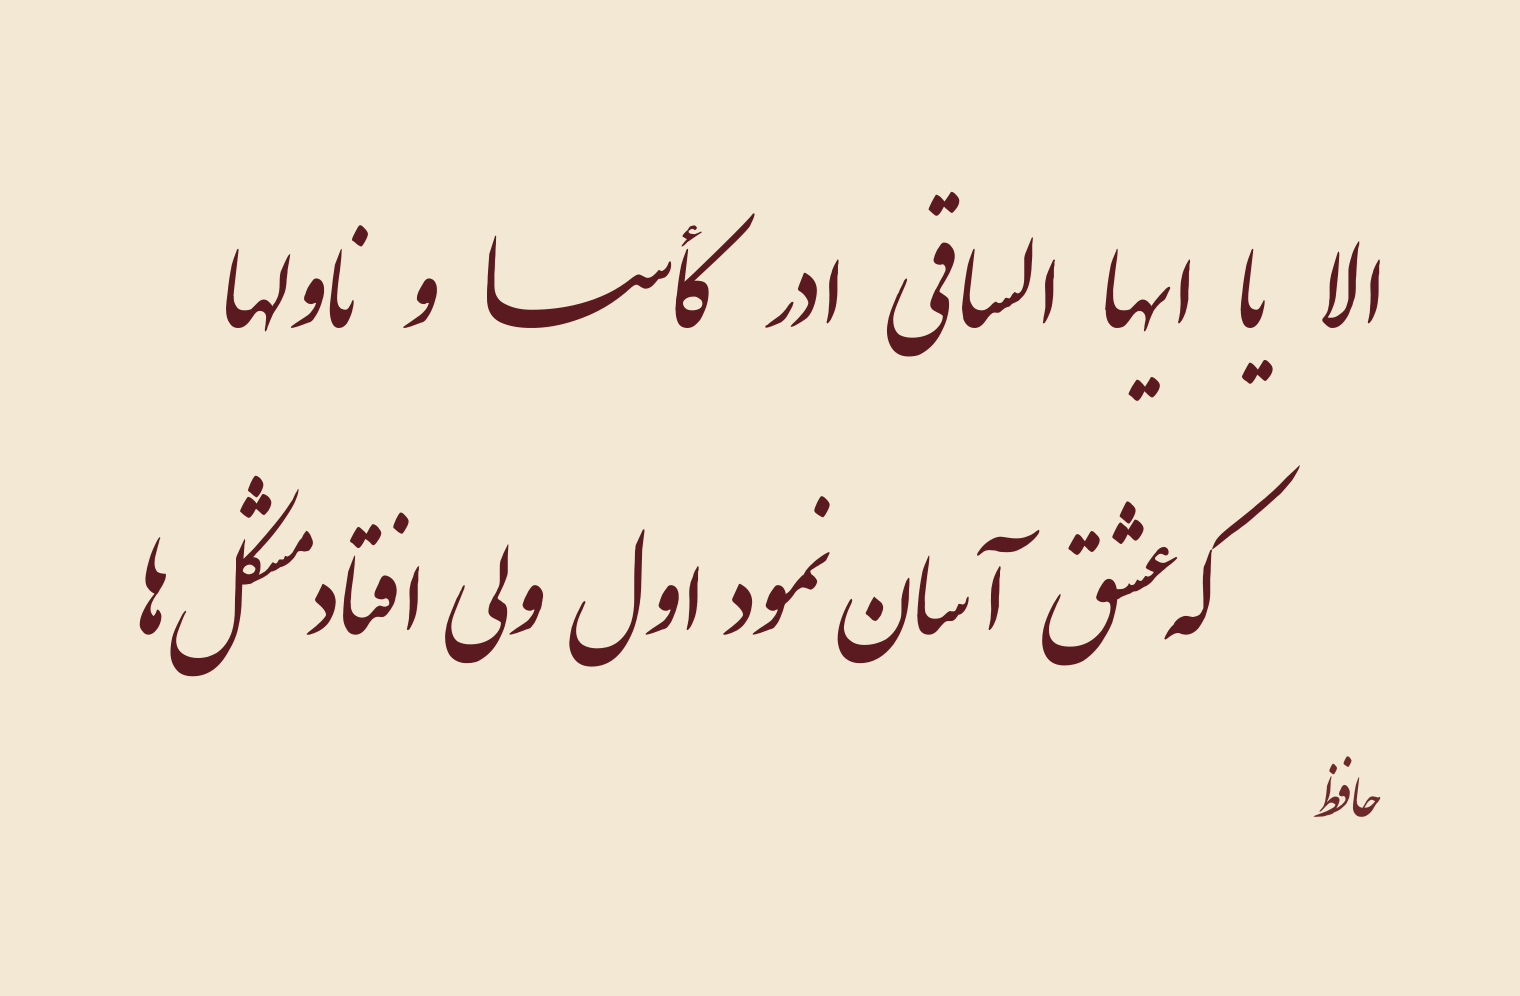
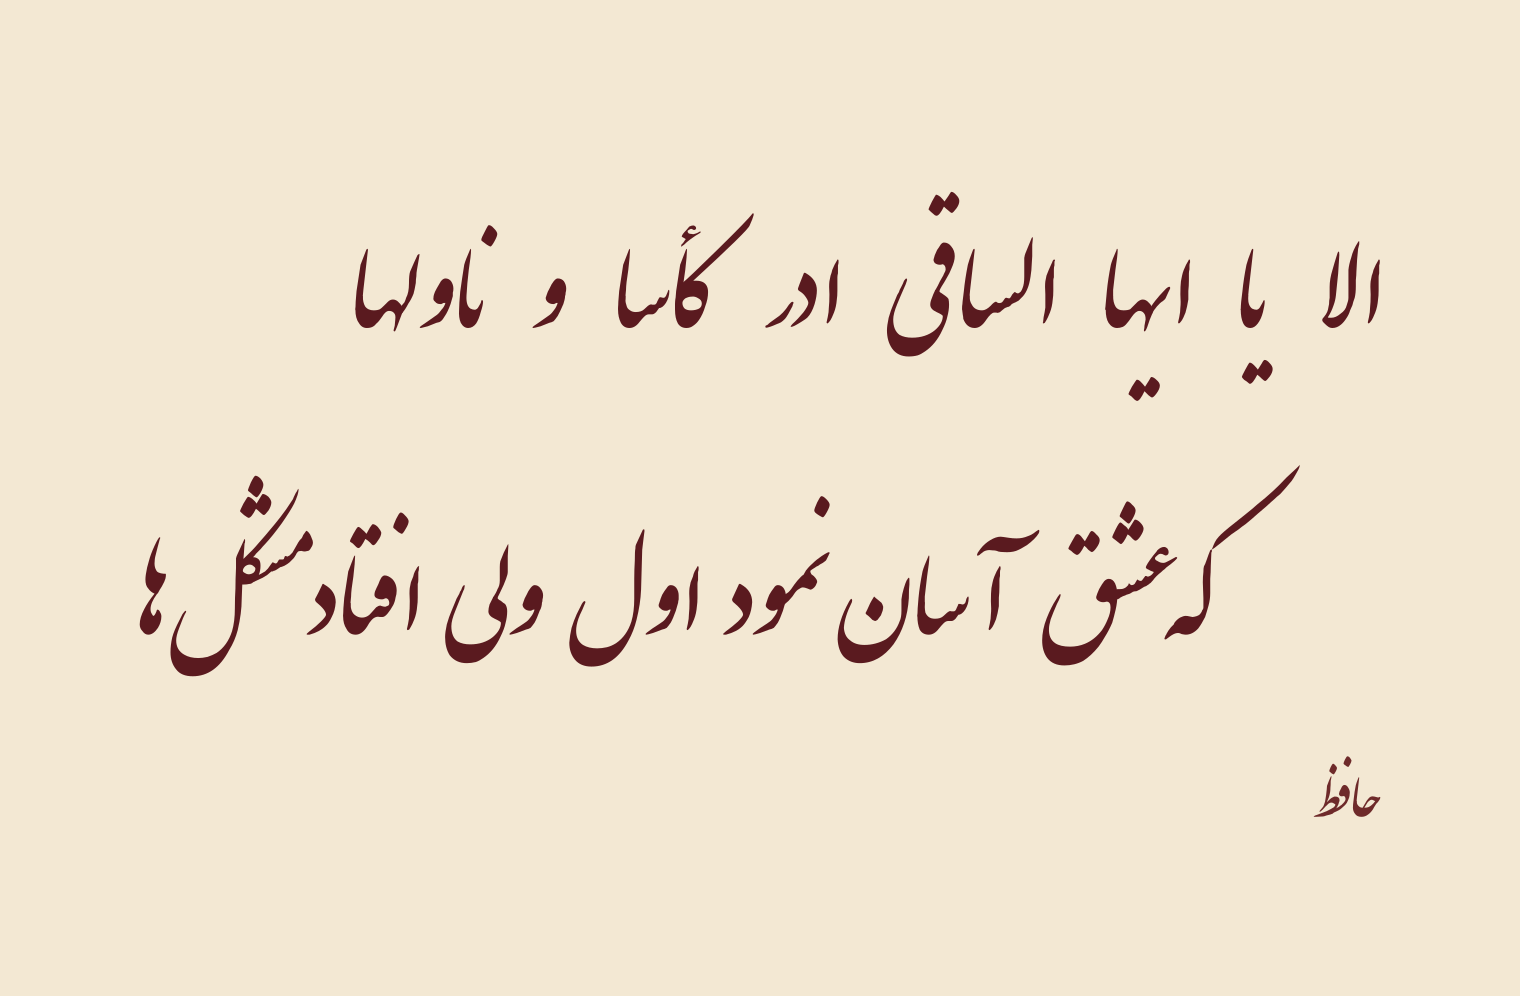
Keep the ف head joined to ر; no keshideh on س/ش
- Dot fixer skipped letter bodies only by counter/area; IranNastaliq's
  solid ف head is two dots in size and was being moved off the ر
  (آفرینش). A dot-sized contour that is its glyph's largest piece and
  touches another letter is now treated as the body.
- Drop س/ش from keshideh: the keshideh itself stands for the sin, and
  the font draws teeth + stretch. ص/ض at any run end; ب/ن/ی/ف/ق/ک/گ only
  into a word's final letter.
- Regenerate samples; update SKILL.md and README

Changed region(s): [[0.1237, 0.2179, 0.4638, 0.3424]]

diff --git a/scripts/render.py b/scripts/render.py
@@ -42,8 +42,8 @@ TATWEEL, ZWNJ = 'ـ', ''
 NON_JOINERS = set('اآأإدذرزژوؤ')           # never connect to the next letter
 PARTICLES = {'به', 'که', 'را', 'و', 'یا', 'چه', 'از', 'در', 'با', 'تا', 'بر', 'هر', 'نه', 'گر', 'اگر', 'چو'}
 MARKED = set('آأإؤئۀ')                     # letters that carry a madda or hamza
-SIN_FAMILY = set('سشصض')                    # the classical keshideh letters
-STRETCHABLE = set('بپتثنیئفق')              # also stretchable, but only into a word's final letter
+SAD_FAMILY = set('صض')                      # stretch cleanly into any run end (اعضـای)
+STRETCHABLE = set('بپتثنیئفقکگ')            # stretchable only into a word's final letter
 HARAKAT = set(chr(c) for c in range(0x064B, 0x0660)) | {'ٰ'}
 
 W, H, BY = 5000, 800, 480                   # mask canvas (px) and its baseline
@@ -170,10 +170,11 @@ def joints(word):
 
     A keshideh stretches the second-to-last letter of a connected run into the run's last
     letter, never the word's first letter.
-      tier 1: the sin family (س ش ص ض) at the end of any run: کأسـا، اعضـای.
-      tier 2: ب پ ت ث ن ی ئ ف ق into the word's final letter only: الرحیـم.
-    ک and گ are left alone: IranNastaliq's stretched kaf cuts a word in two (یکـدیگرند),
-    and ل, ه, the ح family, م and ع draw badly stretched (الـرحیم reads as السرحیم)."""
+      tier 1: ص ض at the end of any run: اعضـای.
+      tier 2: ب پ ت ث ن ی ئ ف ق ک گ into the word's final letter only: الرحیـم، مشکـلها.
+    Never س or ش: in Nastaliq the keshideh itself stands for the sin, but IranNastaliq draws
+    the teeth and then the stretch, which reads as sin + keshideh (کأسـا، بسـم).
+    ل, ه, the ح family, م and ع draw badly stretched (الـرحیم reads as السرحیم)."""
     if word in PARTICLES or TATWEEL in word:
         return []
     runs = runs_of(word)
@@ -186,7 +187,8 @@ def joints(word):
         if len(r) < 2 or r[-2][0] == first:
             continue
         i, c = r[-2]
-        tier = 1 if c in SIN_FAMILY else (2 if c in STRETCHABLE and k == len(runs) - 1 else 0)
+        last = k == len(runs) - 1 or word[r[-1][0] + 1:r[-1][0] + 2] == ZWNJ
+        tier = 1 if c in SAD_FAMILY else (2 if c in STRETCHABLE and last else 0)
         if tier:
             while i + 1 < len(word) and word[i + 1] in HARAKAT:   # after the letter's marks
                 i += 1
@@ -373,6 +375,11 @@ def fix_dots(items, A, Wd, Hd, step=10, margin=1.4):
             continue
         others = other_ink(ink, it, A)
         if others.is_empty:
+            continue
+        # the letter's own body is never a dot, even when it is dot-sized: IranNastaliq's ف
+        # head is a separate solid contour of about two dots' area, joined to the next letter.
+        # Moving it lifts the ف off the ر (آفرینش).
+        if it['poly'].area >= max(p.area for p in own) and others.distance(it['poly']) == 0:
             continue
         d0 = others.distance(it['poly'])
         if d0 >= clear:

diff --git a/SKILL.md b/SKILL.md
@@ -68,8 +68,8 @@ No font reproduces a calligrapher's hand. Never hand-draw Arabic letters or join
 - **Straight baseline.** Don't lift or drop words; drift looks random in Nastaliq.
 - **Keshideh (tatweel ـ).** A single tatweel at a valid joint makes IranNastaliq substitute a designed long letter.
   - Use exactly one tatweel per word. With two or more, the font falls back to plain letters.
-  - **Where it goes.** A keshideh stretches the second-to-last letter of a connected run into the run's last letter, and never the word's first letter. **First choice: the sin family (س ش ص ض)**, at the end of any run in any word: کأسـا, اعضـای, بسـم. **Fallback:** ب پ ت ث ن ی ئ ف ق, only into the word's final letter: الرحیـم.
-  - **Never** stretch ک or گ (IranNastaliq's long kaf cuts the word, as in یکـدیگرند, and a stretched گ turns یکدیگرند into «یکدیسرند»), a word's first letter (نـاولها reads as ن + اولها), ل (الـرحیم reads as السرحیم), ه, ح ج چ خ, م, or ع غ. A fallback stretch into a short final letter in a long word can also look out of proportion (یکدیگرنـد: the ن loses its tooth and the د shrinks), so prefer a sin-family place anywhere in the misra'. If neither exists, give the misra' no keshideh and widen its gaps instead.
+  - **Where it goes.** A keshideh stretches the second-to-last letter of a connected run into the run's last letter, and never the word's first letter. **ص ض** may stretch at the end of any run (اعضـای). **ب پ ت ث ن ی ئ ف ق ک گ** stretch only into the word's final letter, or the last letter before a ZWNJ (الرحیـم, مشکـلها).
+  - **Never stretch س or ش.** In Nastaliq the keshideh itself stands for the sin; IranNastaliq draws the teeth and then the stretch, which reads as sin + keshideh (کأسـا, بسـم). Also never stretch a word's first letter (نـاولها reads as ن + اولها), ل (الـرحیم reads as السرحیم), ه, ح ج چ خ, م, ع غ, or a ک/گ in the middle of a word (یکـدیگرند cuts the word in two). A stretch into a short final letter of a long word can look out of proportion (یکدیگرنـد), so prefer ص/ض when the misra' has one. If no word has a place, give the misra' no keshideh, widen its gaps, and say in the reply if the misra' still differ in length.
   - Keep it only if the word gets noticeably wider (about +30% or more) and looks right.
   - Use it only on content words, never on particles or one-joint words (به, که, را, و, یا, چه).
   - Allow at most one per misra'. Among places of the same kind, prefer the last content word, so the line closes on the long stroke.
@@ -113,6 +113,7 @@ Both fonts draw dots and marks (madda, hamza) inside each letter's glyph, so a n
 - **Identify before fixing.** When a user reports a collision, render the word with each contour in its own colour and list each contour's glyph, character, area and bounds (`Outliner.contours`). Don't assume which shape is which: in Dima's آن the diamond is the ن's dot and the madda is a separate wave lying on the ن's swash.
 - **Dot group:** a free contour whose area is within 20% of 1, 2 or 3 dots. One dot's size is learned from the font. A contour with a counter (head of ف), one touching its own letter, or one alone in its glyph is not a dot.
 - **Marks:** only on آ أ إ ؤ ئ ۀ: the free contour of at most ~4 dots' area, smaller than half the letter's body, lying wholly above the body (below for إ). In IranNastaliq the alef of أ is a separate contour; moving it instead of the hamza detaches the ا from the ک (کأسا → «ا کسا»).
+- **A letter's body is never a dot.** IranNastaliq draws the ف head as a separate solid contour about two dots in size, joined to the next letter. Skip any dot-sized contour that is the largest piece of its glyph and touches another letter; moving it lifts the ف off the ر (آفرینش).
 - **Stay home.** A moved dot or mark must stay horizontally over its own letter and nearer to it than to any other letter. Otherwise it changes the word: a ن dot pushed over the next د makes گوهرند read «گوهرنز».
 - **Trigger:** closer than half a dot's height to *another* letter's ink (slivers under 0.8 dot are ignored). Distance to its own letter is the designer's choice.
 - **Move** until 1.4 × that clearance away. Dots search the whole circle, starting with the side away from their own letter, and move at most ~1.3 dot heights. Marks search ~3 dot heights, stay near their letter and keep at least 0.3 dot heights from it.

diff --git a/README.md b/README.md
@@ -13,7 +13,7 @@ engine leaves out:
 
 - **Ink-based word spacing**: words slide together until their *ink* is a fixed distance apart, so
   gaps look even even though word shapes are not.
-- **Keshideh (kashida)** in Nastaliq: one designed long stroke at a classical place, preferring the sin family (اعضـای, کأسـا, بسـم), on the
+- **Keshideh (kashida)** in Nastaliq: one designed long stroke at a classical place (اعضـای, الرحیـم), never on س/ش, on the
   shorter misra', after which both misra' are matched in length to within about 1%.
 - **Rising line end** in Shekasteh: the line lifts toward its end, as a Shekasteh hand writes.
 - **Fused letter pairs** in Shekasteh (`cswh`), e.g. شک and حک.
@@ -26,7 +26,7 @@ engine leaves out:
 | | |
 |---|---|
 | **Saadi, Nastaliq** — keshideh on اعضـای<br><img src="samples/saadi-nastaliq.png" alt="Saadi Nastaliq"> | **Saadi, Nastaliq, dark mode**<br><img src="samples/saadi-nastaliq-dark.png" alt="Saadi Nastaliq dark"> |
-| **Rumi, Shekasteh, dark mode**<br><img src="samples/rumi-shekasteh-dark.png" alt="Rumi Shekasteh dark"> | **Bismillah, single centred line** — keshideh on بسـم<br><img src="samples/bismillah-nastaliq.png" alt="Bismillah Nastaliq"> |
+| **Rumi, Shekasteh, dark mode**<br><img src="samples/rumi-shekasteh-dark.png" alt="Rumi Shekasteh dark"> | **Bismillah, single centred line** — keshideh on الرحیـم<br><img src="samples/bismillah-nastaliq.png" alt="Bismillah Nastaliq"> |
 
 The SVG source of each sample is in [`samples/`](samples/).
 
@@ -42,8 +42,8 @@ pip install -r requirements.txt
 
 # a bayt: pass each misra' as its own argument
 python scripts/render.py --style nastaliq \
-    "الا یا ایها الساقی ادر کأسا و ناولها" "که عشق آسان نمود اول ولی افتاد مشکلها" \
-    --author "حافظ" -o hafez.svg --png hafez.png
+    "بنی آدم اعضای یکدیگرند" "که در آفرینش ز یک گوهرند" \
+    --author "سعدی" -o saadi.svg --png saadi.png
 
 python scripts/render.py --style shekasteh \
     "بشنو این نی چون شکایت میکند" "از جداییها حکایت میکند" \
@@ -53,8 +53,8 @@ python scripts/render.py --style shekasteh \
 Each run prints what it did:
 
 ```
-  keshideh: misra' 1, word 'کأسـا' (+95%)
-  gaps: 25px / 14px, width diff 0.4%
+  keshideh: misra' 1, word 'اعضـای' (+63%)
+  gaps: 15px / 14px, width diff 0.2%
 ```
 
 | Option | Effect |
